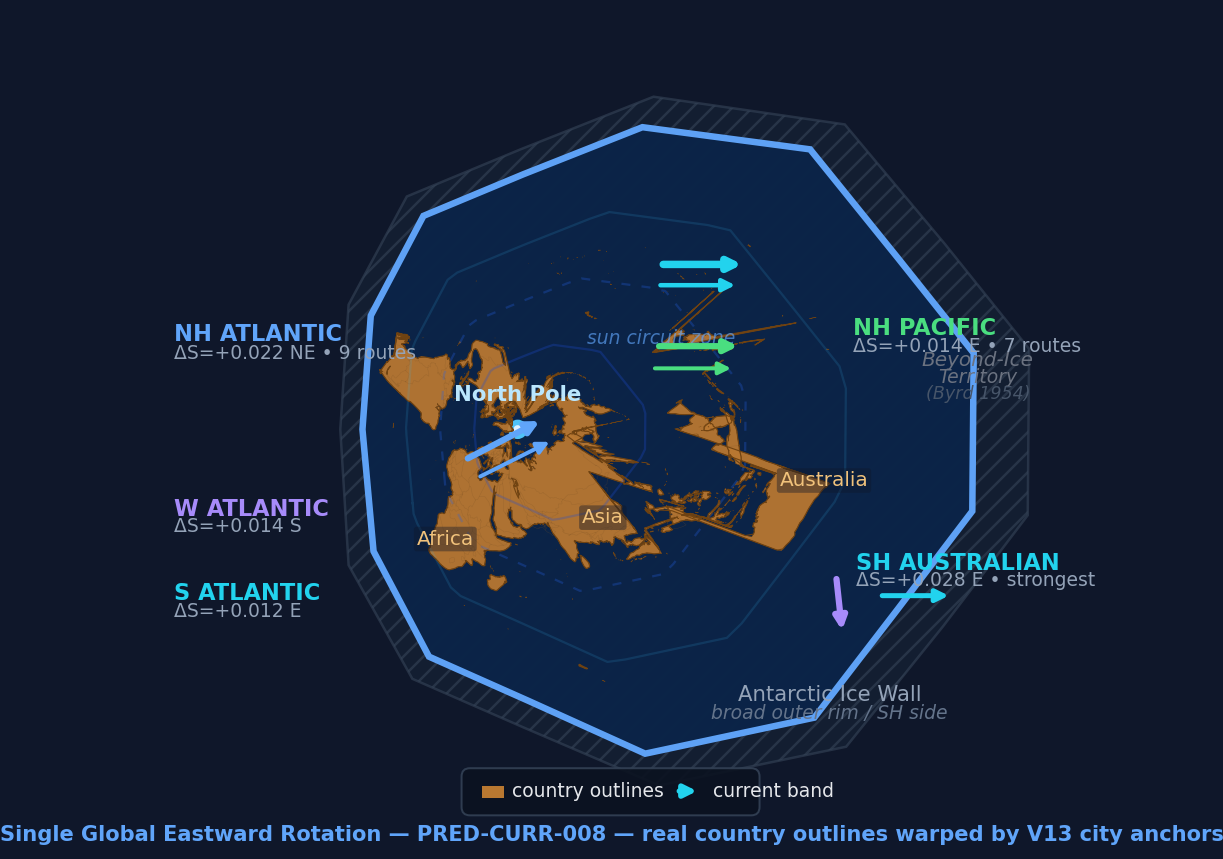
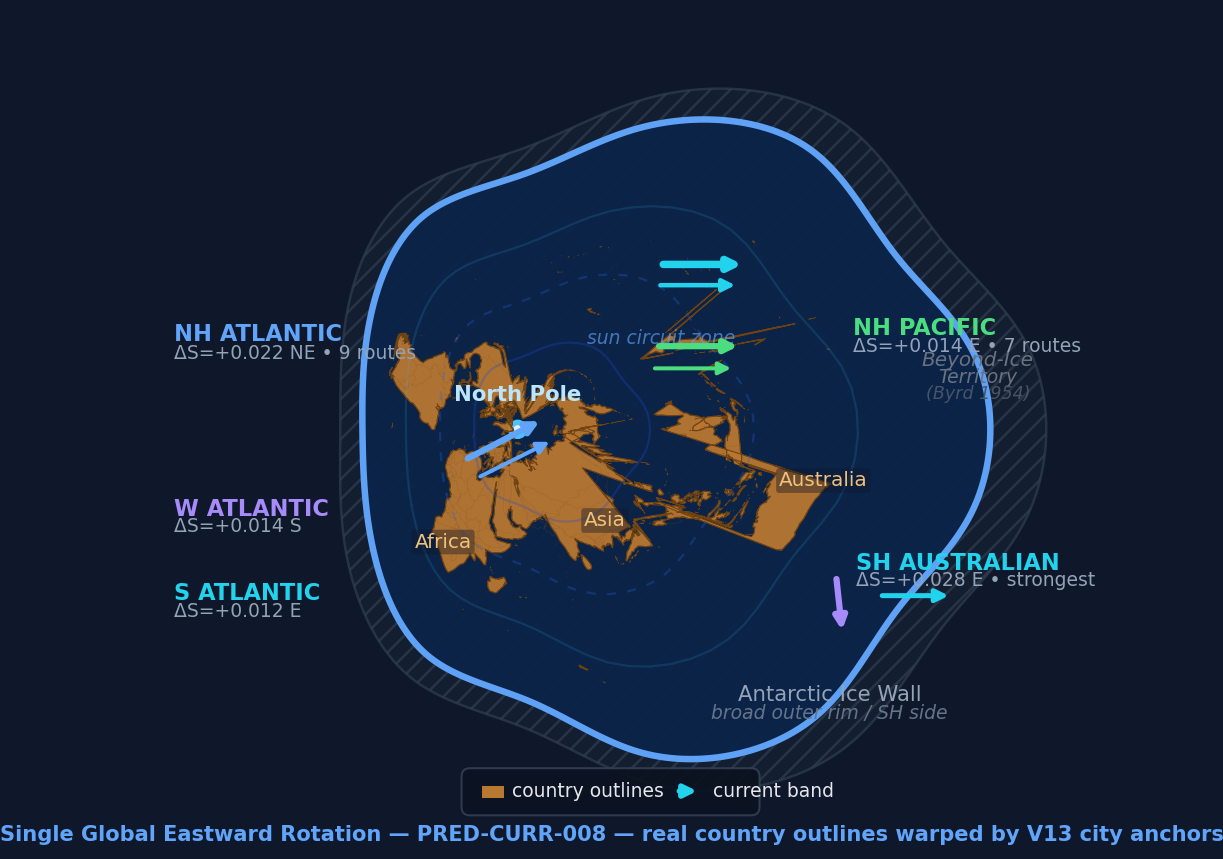
Smooth homepage ice wall and pull southern land inward

diff --git a/scripts/generate_v13_warped_map.py b/scripts/generate_v13_warped_map.py
@@ -14,6 +14,7 @@ import matplotlib.patches as mpatches
 import matplotlib.pyplot as plt
 import numpy as np
 from matplotlib.path import Path as MplPath
+from scipy.interpolate import CubicSpline
 from scipy.spatial import Delaunay
 from shapely.geometry import LineString, MultiLineString, MultiPolygon, Polygon
 
@@ -30,7 +31,7 @@ NP_Y = 310.0
 # The homepage keeps the site's established "horizontal ovoid" silhouette.
 # This is a display frame, not a new derivation. The control points below are
 # used only to shape the final rendered map on the homepage.
-MAIN_BOUNDARY = np.array(
+MAIN_BOUNDARY_CONTROL = np.array(
     [
         (170, 310),
         (176, 228),
@@ -52,6 +53,28 @@ MAIN_BOUNDARY = np.array(
     dtype=float,
 )
 
+BEYOND_BOUNDARY_CONTROL = np.array(
+    [
+        (154, 310),
+        (160, 220),
+        (202, 142),
+        (284, 108),
+        (380, 70),
+        (518, 90),
+        (590, 176),
+        (651, 252),
+        (650, 372),
+        (589, 452),
+        (519, 539),
+        (384, 567),
+        (286, 525),
+        (206, 490),
+        (160, 408),
+        (154, 310),
+    ],
+    dtype=float,
+)
+
 # The source map starts from a standard north-pole azimuthal-equidistant style
 # disc. We then warp that disc into the homepage ovoid with V13 city anchors.
 SOURCE_RADIUS = 252.0
@@ -69,6 +92,26 @@ LABEL_POINTS = [
     ("Asia", 96.0, 44.0, 14.0, 10.0),
     ("Australia", 136.0, -25.0, 22.0, 4.0),
 ]
+
+
+def smooth_closed_curve(control_points: np.ndarray, samples: int = 720) -> np.ndarray:
+    # The user correctly called out that the earlier boundary read like a hexagon.
+    # We keep the same control vertices, but draw and sample them as a periodic
+    # spline so the ice wall reads like a continuous ovoid instead of a faceted
+    # polygon.
+    base = np.asarray(control_points, dtype=float)
+    deltas = np.diff(base, axis=0)
+    distances = np.sqrt((deltas**2).sum(axis=1))
+    t = np.concatenate([[0.0], np.cumsum(distances)])
+    x_spline = CubicSpline(t, base[:, 0], bc_type="periodic")
+    y_spline = CubicSpline(t, base[:, 1], bc_type="periodic")
+    sample_t = np.linspace(0.0, t[-1], samples, endpoint=False)
+    curve = np.column_stack([x_spline(sample_t), y_spline(sample_t)])
+    return np.vstack([curve, curve[0]])
+
+
+MAIN_BOUNDARY = smooth_closed_curve(MAIN_BOUNDARY_CONTROL)
+BEYOND_BOUNDARY = smooth_closed_curve(BEYOND_BOUNDARY_CONTROL)
 
 
 @dataclass(frozen=True)
@@ -226,7 +269,9 @@ def display_scale(rotated_xy: np.ndarray) -> float:
         if r_km < 1e-9:
             continue
         theta = math.atan2(y_km, x_km)
-        scales.append(0.92 * boundary_radius(theta) / r_km)
+        # Extra inset keeps SH land, especially Australia, visually inside the
+        # rim instead of kissing the ice wall in the homepage render.
+        scales.append(0.82 * boundary_radius(theta) / r_km)
     return min(scales)
 
 
@@ -360,31 +405,9 @@ def draw_geom(ax, geom, warp: PiecewiseAffineWarp, facecolor: str, edgecolor: st
 def make_background(ax):
     ax.set_facecolor("#0f172a")
     ax.add_patch(mpatches.Rectangle((0, 0), 700, 620, facecolor="#0f172a", edgecolor="none"))
-
-    beyond_vertices = np.array(
-        [
-            (154, 310),
-            (160, 220),
-            (202, 142),
-            (284, 108),
-            (380, 70),
-            (518, 90),
-            (590, 176),
-            (651, 252),
-            (650, 372),
-            (589, 452),
-            (519, 539),
-            (384, 567),
-            (286, 525),
-            (206, 490),
-            (160, 408),
-            (154, 310),
-        ],
-        dtype=float,
-    )
     ax.add_patch(
         polygon_to_patch(
-            beyond_vertices,
+            BEYOND_BOUNDARY,
             facecolor="#162235",
             edgecolor="#334155",
             linewidth=1.0,
